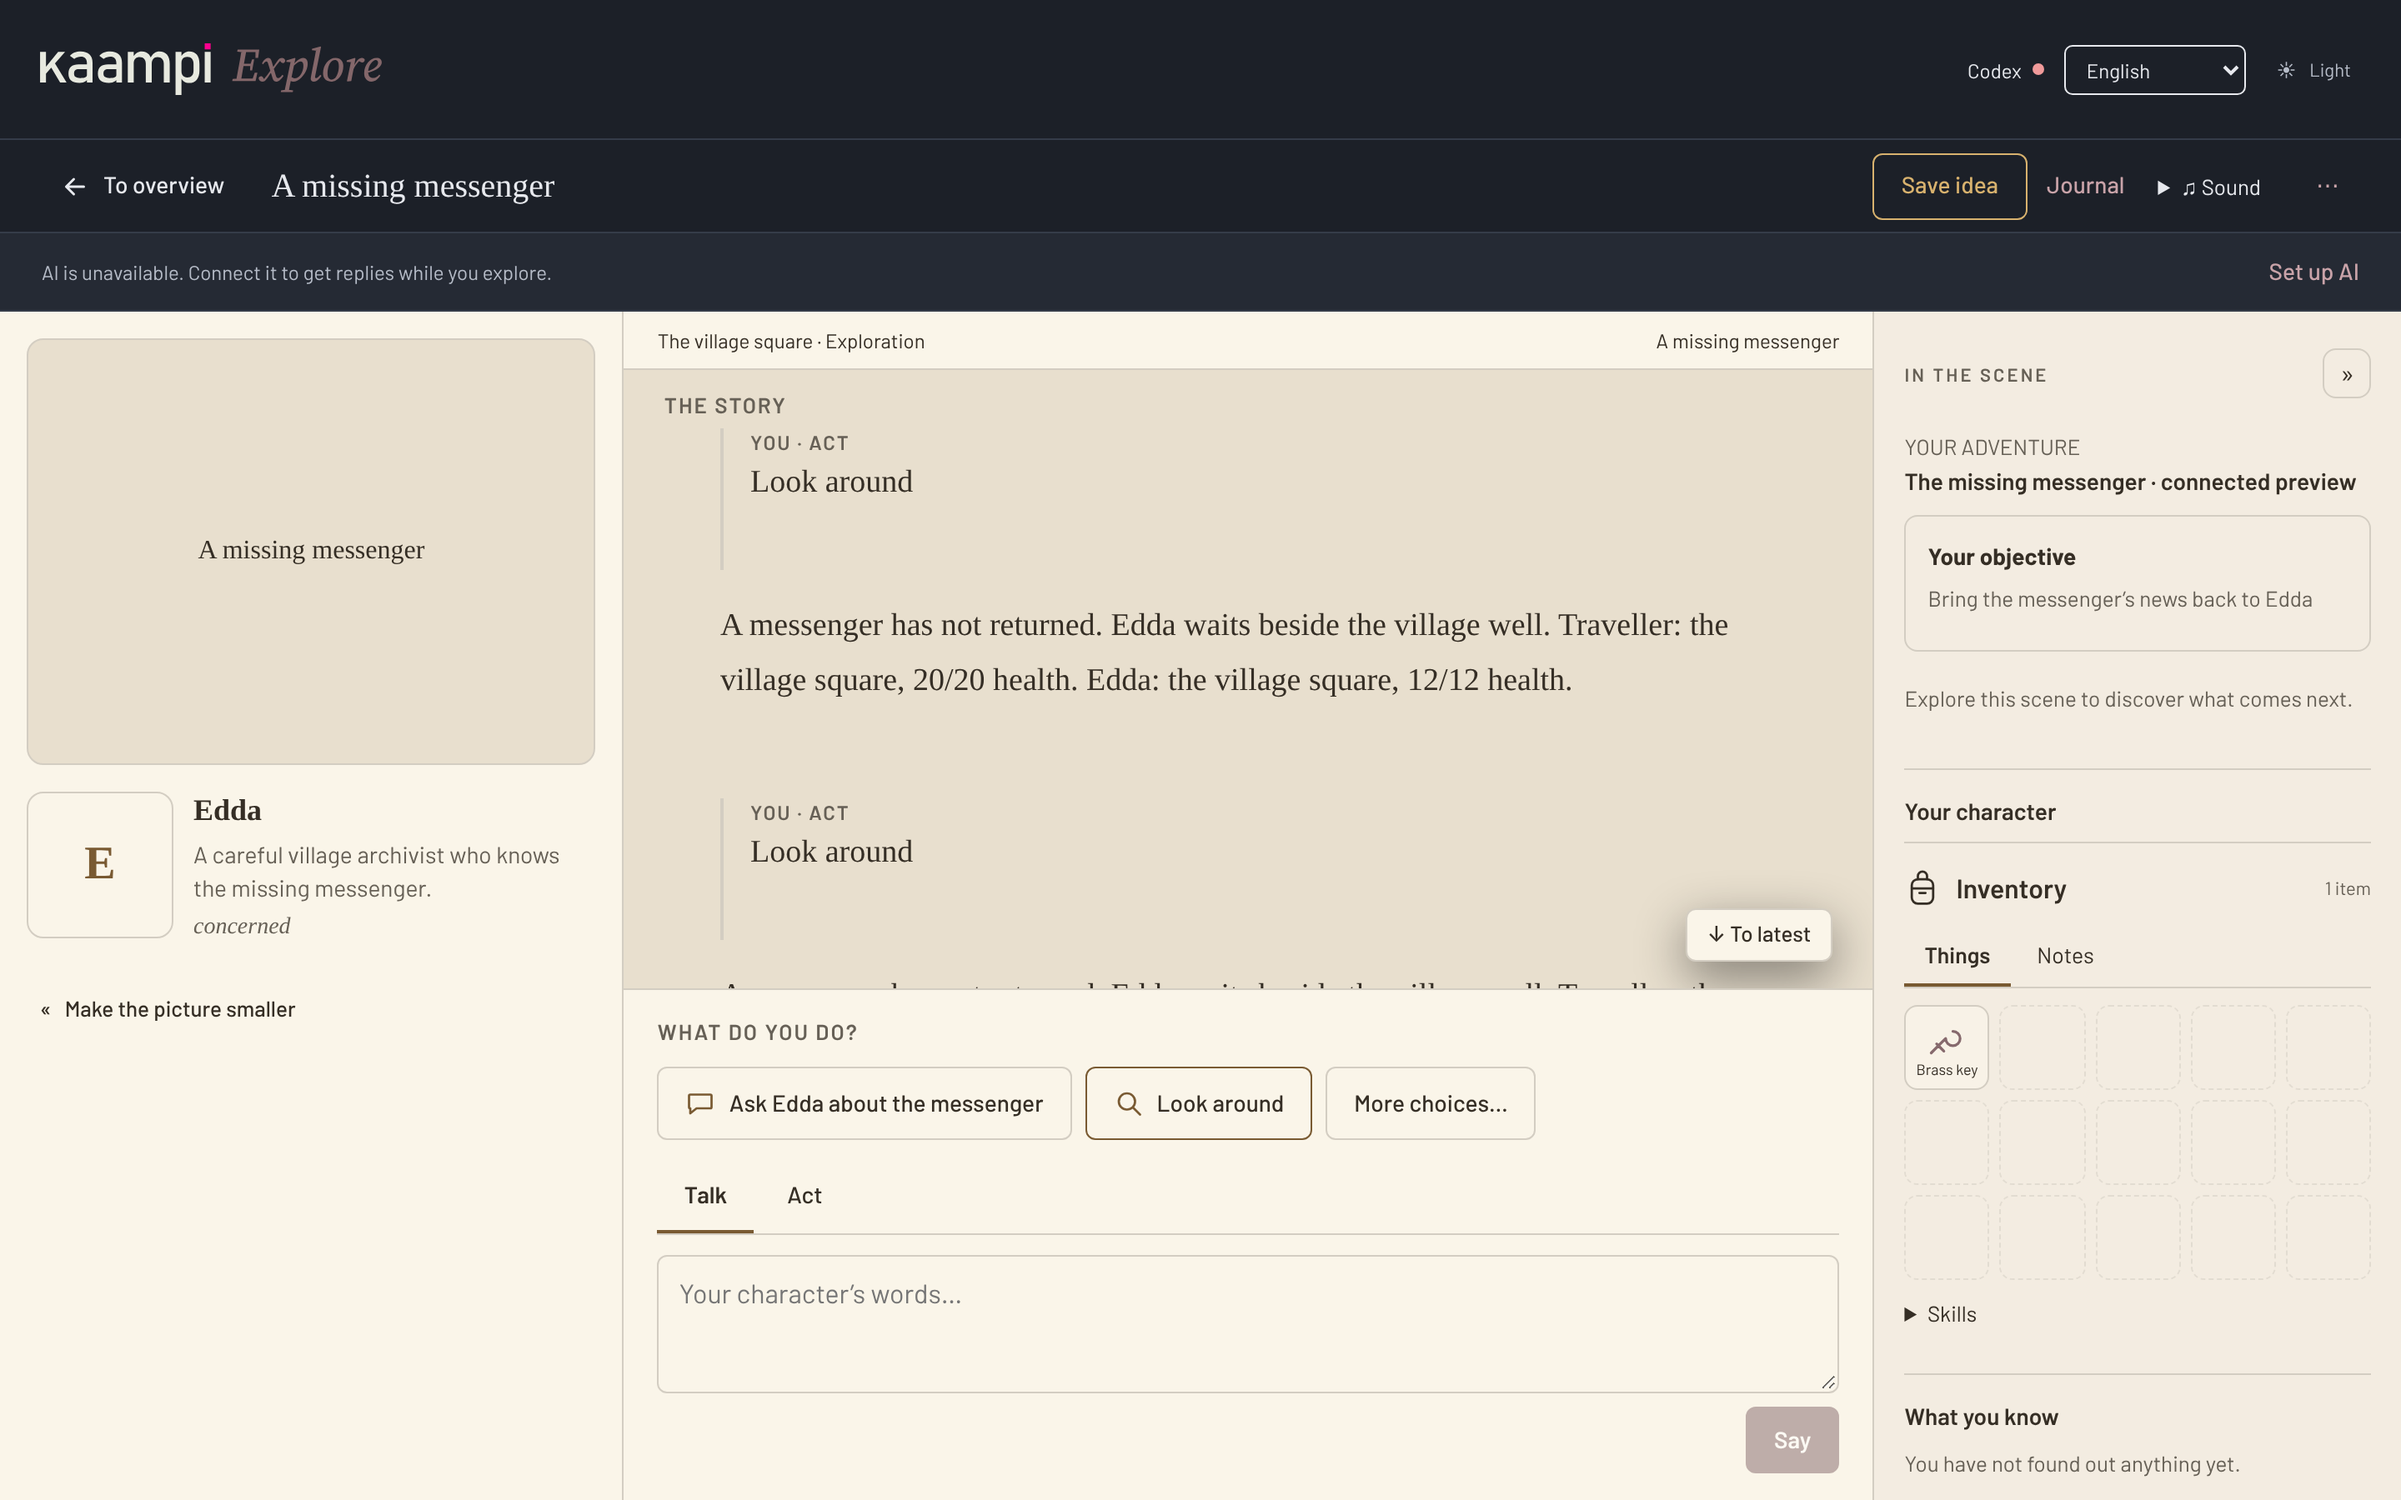
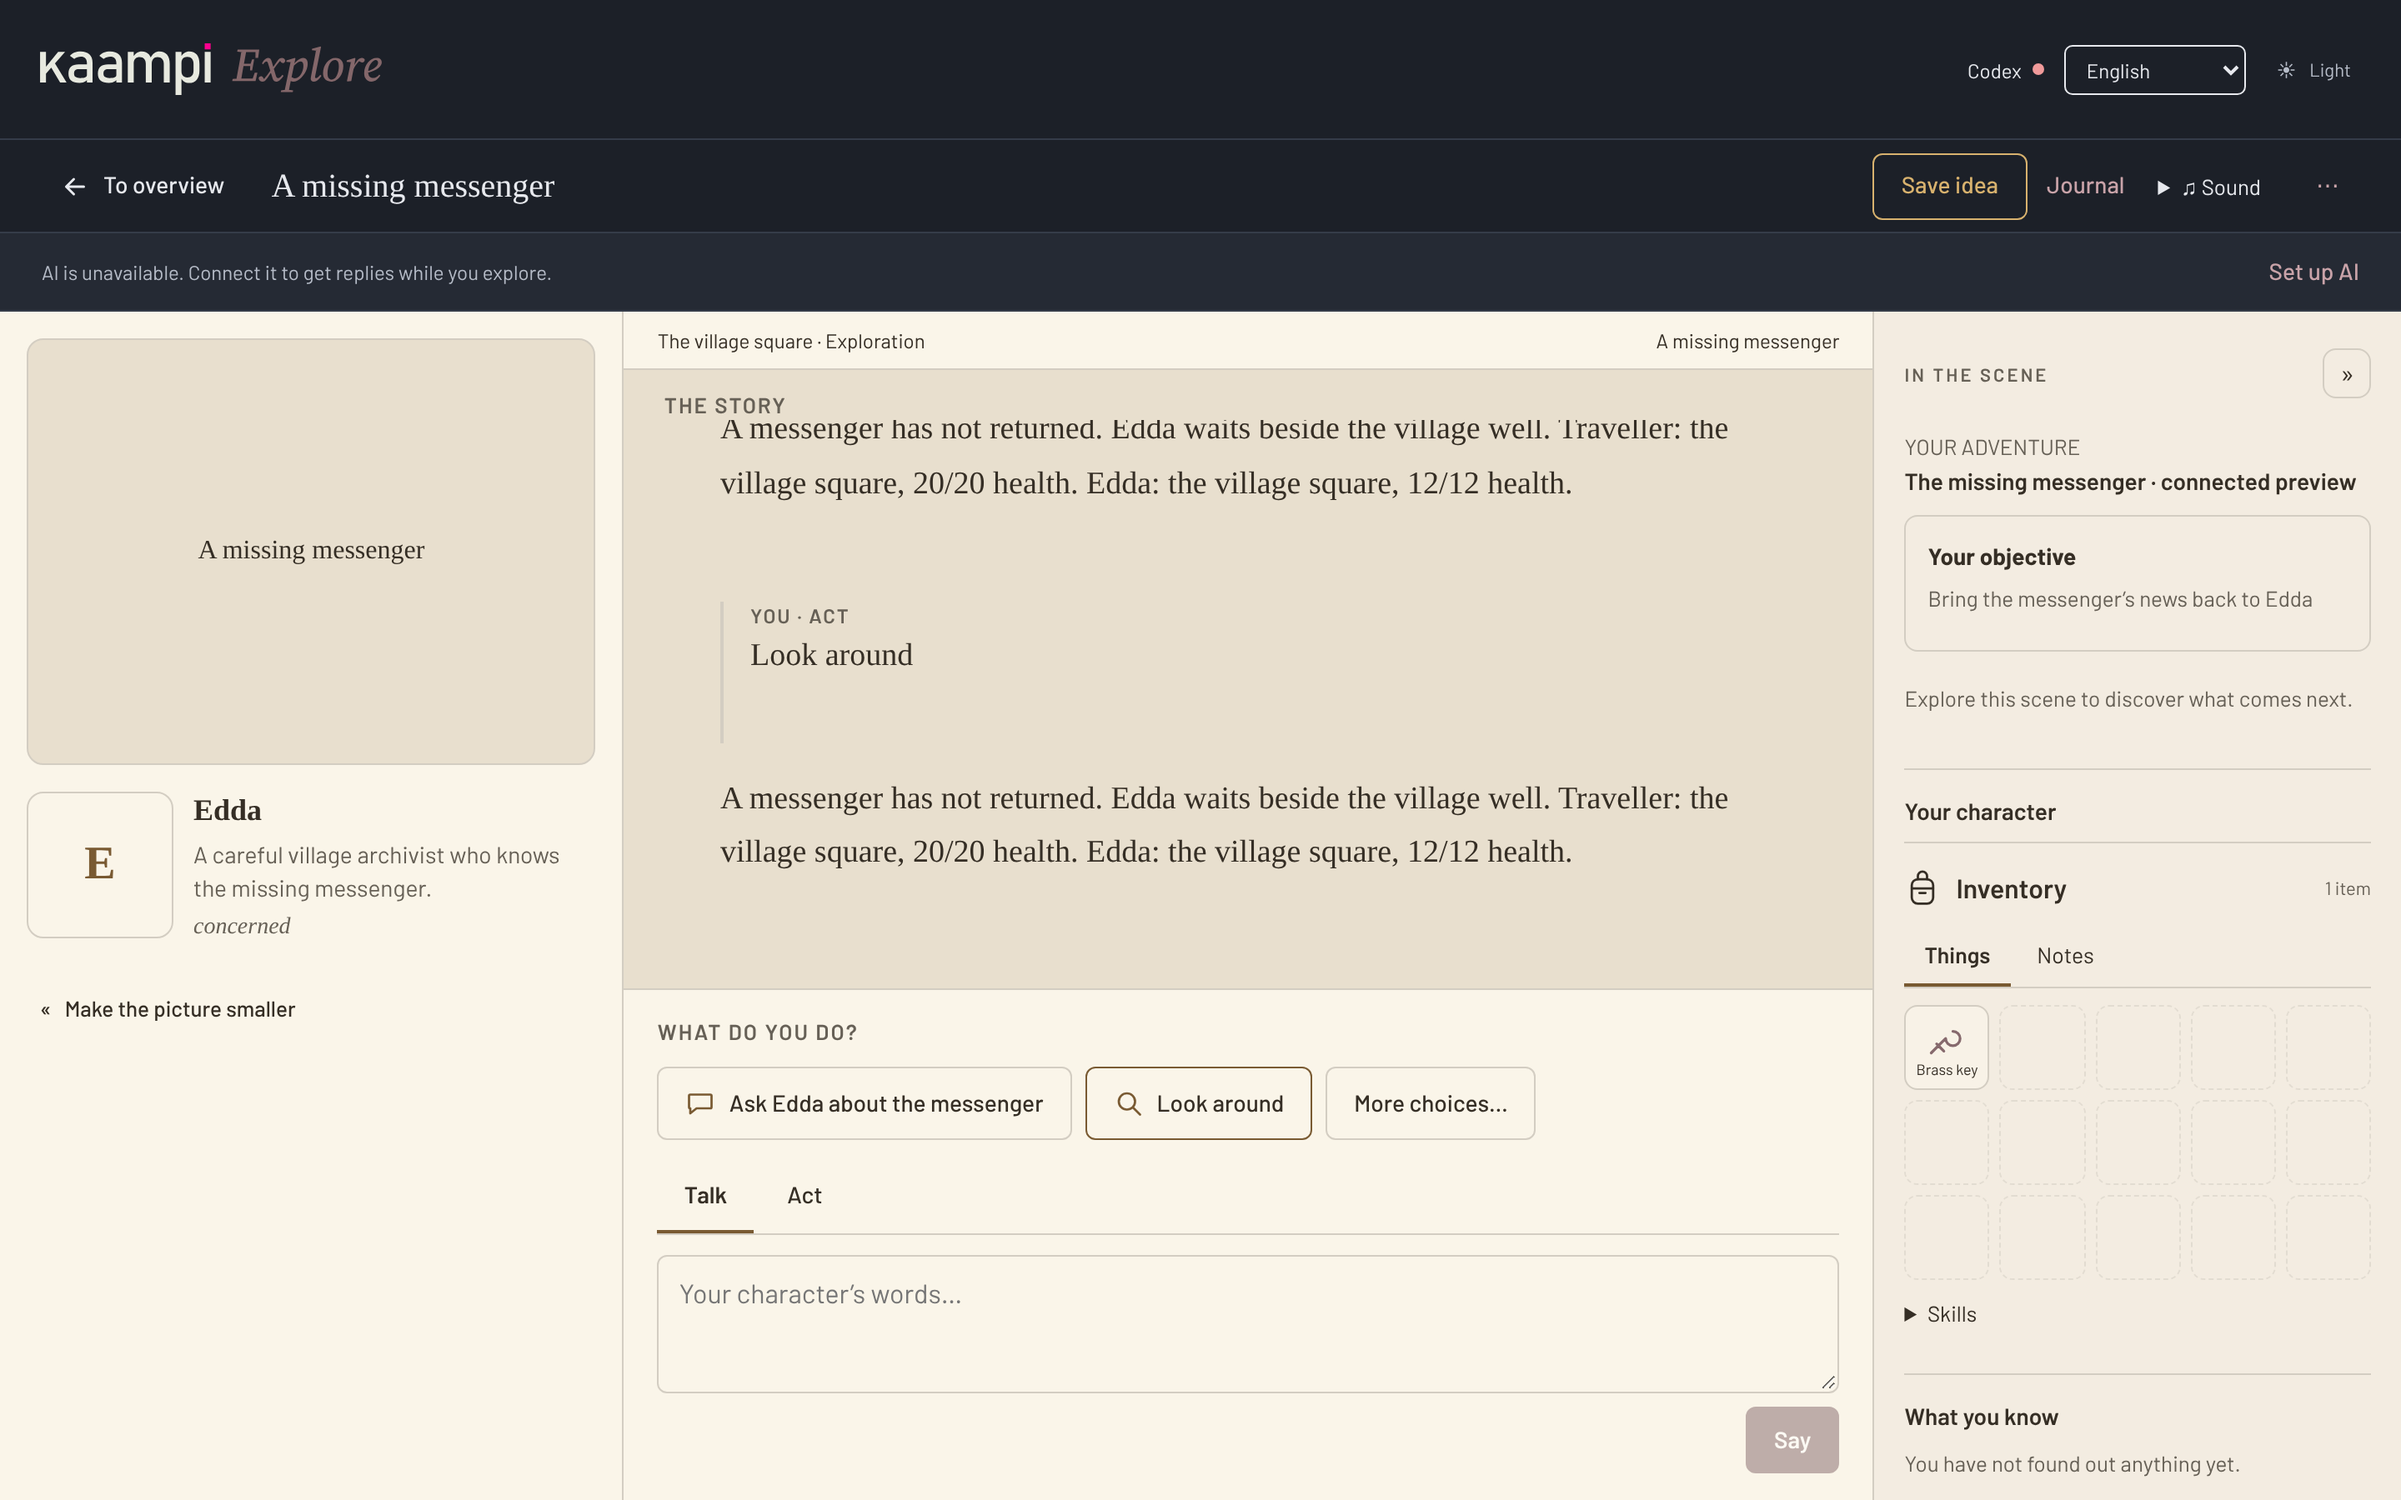
AI notice: 12 px text, and a short text for "choose a model"
In the narrow layout the notice text is 12 px again. When AI is
connected but has no model chosen, it says "Choose an AI model."
instead of "AI is not connected."

Claude-Session: https://claude.ai/code/session_01EwM3iujEpX7Uc9w2rbv3um

diff --git a/tests/ui/play-ai-notice.dom.test.tsx b/tests/ui/play-ai-notice.dom.test.tsx
@@ -10,6 +10,7 @@ import { IndexedDBRepository } from "../../src/persistence/IndexedDBRepository";
 
 let session: ReturnType<typeof playMapFixture>["session"];
 let layout: "wide" | "narrow" = "wide";
+let readiness = "unavailable";
 vi.mock("../../src/ui/EngineStore", () => ({
   useEngine: () => ({ useSession: () => session, phase: "idle", setOllamaModel: () => {} }),
 }));
@@ -22,7 +23,7 @@ vi.mock("../../src/ui/components/EncounterPanel", () => ({
 vi.mock("../../src/ui/connection/ConnectionProvider", () => ({
   useConnection: () => ({ discovery: {}, refresh: () => {}, chooseModel: () => {} }),
 }));
-vi.mock("../../src/ui/connection/connection", () => ({ modelReadiness: () => "unavailable" }));
+vi.mock("../../src/ui/connection/connection", () => ({ modelReadiness: () => readiness }));
 vi.mock("../../src/ui/connection/ConnectionHelp", () => ({
   ConnectionHelp: () => <p data-help="true">Connection settings</p>,
 }));
@@ -33,7 +34,8 @@ vi.mock("../../src/ui/themes/ThemeProvider", () => ({
 }));
 vi.mock("../../src/ui/audio/GameAudio", () => ({ GameAudio: () => null }));
 
-async function inEncounter(size: typeof layout) {
+async function inEncounter(size: typeof layout, ready = "unavailable") {
+  readiness = ready;
   Object.assign(globalThis, { IS_REACT_ACT_ENVIRONMENT: true });
   if (!HTMLDialogElement.prototype.showModal) {
     HTMLDialogElement.prototype.showModal = function (this: HTMLDialogElement) {
@@ -93,5 +95,24 @@ it("keeps the notice to one short row in a narrow window, with the button still 
     expect(notice.querySelector("button")?.textContent).toBe("Set up AI");
   } finally {
     await ui.close();
+  }
+});
+
+it("says to choose a model, not that AI is off, when it is connected but has no model", async () => {
+  const narrow = await inEncounter("narrow", "missing-model");
+  try {
+    expect(narrow.host.querySelector(".sb-play-connection")?.textContent).toContain(
+      "Choose an AI model.",
+    );
+  } finally {
+    await narrow.close();
+  }
+  const wide = await inEncounter("wide", "empty");
+  try {
+    expect(wide.host.querySelector(".sb-play-connection")?.textContent).toContain(
+      "Choose an installed model",
+    );
+  } finally {
+    await wide.close();
   }
 });

diff --git a/src/ui/i18n/LanguageProvider.tsx b/src/ui/i18n/LanguageProvider.tsx
@@ -1514,6 +1514,7 @@ const labels = {
     pwAiChooseModel: "Choose an installed model to get AI replies.",
     pwAiUnavailable: "AI is unavailable. Connect it to get replies while you explore.",
     pwAiOffShort: "AI is not connected.",
+    pwAiChooseModelShort: "Choose an AI model.",
     pwAtYourFingertips: "At your fingertips",
     pwTakeAChance: "Take a chance",
     pwDescribeWhatYouWant: "Describe what you want to try, choose a stat, and let the dice decide.",
@@ -2660,6 +2661,7 @@ const labels = {
     pwAiChooseModel: "Välj en installerad modell för att få AI-svar.",
     pwAiUnavailable: "AI är inte tillgänglig. Anslut AI för att få svar medan du utforskar.",
     pwAiOffShort: "AI är inte ansluten.",
+    pwAiChooseModelShort: "Välj en AI-modell.",
     pwAtYourFingertips: "Inom räckhåll",
     pwTakeAChance: "Chansa",
     pwDescribeWhatYouWant: "Beskriv vad du vill försöka, välj ett värde och låt tärningen avgöra.",
@@ -3808,6 +3810,7 @@ const labels = {
     pwAiChooseModel: "Velg en installert modell for å få KI-svar.",
     pwAiUnavailable: "KI er utilgjengelig. Koble til KI for å få svar mens du utforsker.",
     pwAiOffShort: "KI er ikke tilkoblet.",
+    pwAiChooseModelShort: "Velg en KI-modell.",
     pwAtYourFingertips: "Innen rekkevidde",
     pwTakeAChance: "Ta en sjanse",
     pwDescribeWhatYouWant: "Beskriv hva du vil prøve, velg en verdi og la terningen avgjøre.",

diff --git a/src/ui/home/PlayWorkspace.tsx b/src/ui/home/PlayWorkspace.tsx
@@ -319,10 +319,12 @@ export function PlayWorkspace({
               {t(
                 readiness === "checking"
                   ? "pwAiChecking"
-                  : layout === "narrow"
-                    ? "pwAiOffShort"
-                    : readiness === "empty" || readiness === "missing-model"
-                      ? "pwAiChooseModel"
+                  : readiness === "empty" || readiness === "missing-model"
+                    ? layout === "narrow"
+                      ? "pwAiChooseModelShort"
+                      : "pwAiChooseModel"
+                    : layout === "narrow"
+                      ? "pwAiOffShort"
                       : "pwAiUnavailable",
               )}
             </span>

diff --git a/src/ui/experience.css b/src/ui/experience.css
@@ -1282,7 +1282,7 @@
   gap: 10px;
   min-height: var(--control-compact);
   padding: 4px 16px;
-  font-size: 11px;
+  font-size: 12px;
   line-height: 1.3;
 }
 .sb-play-connection.sb-play-connection--compact button {
